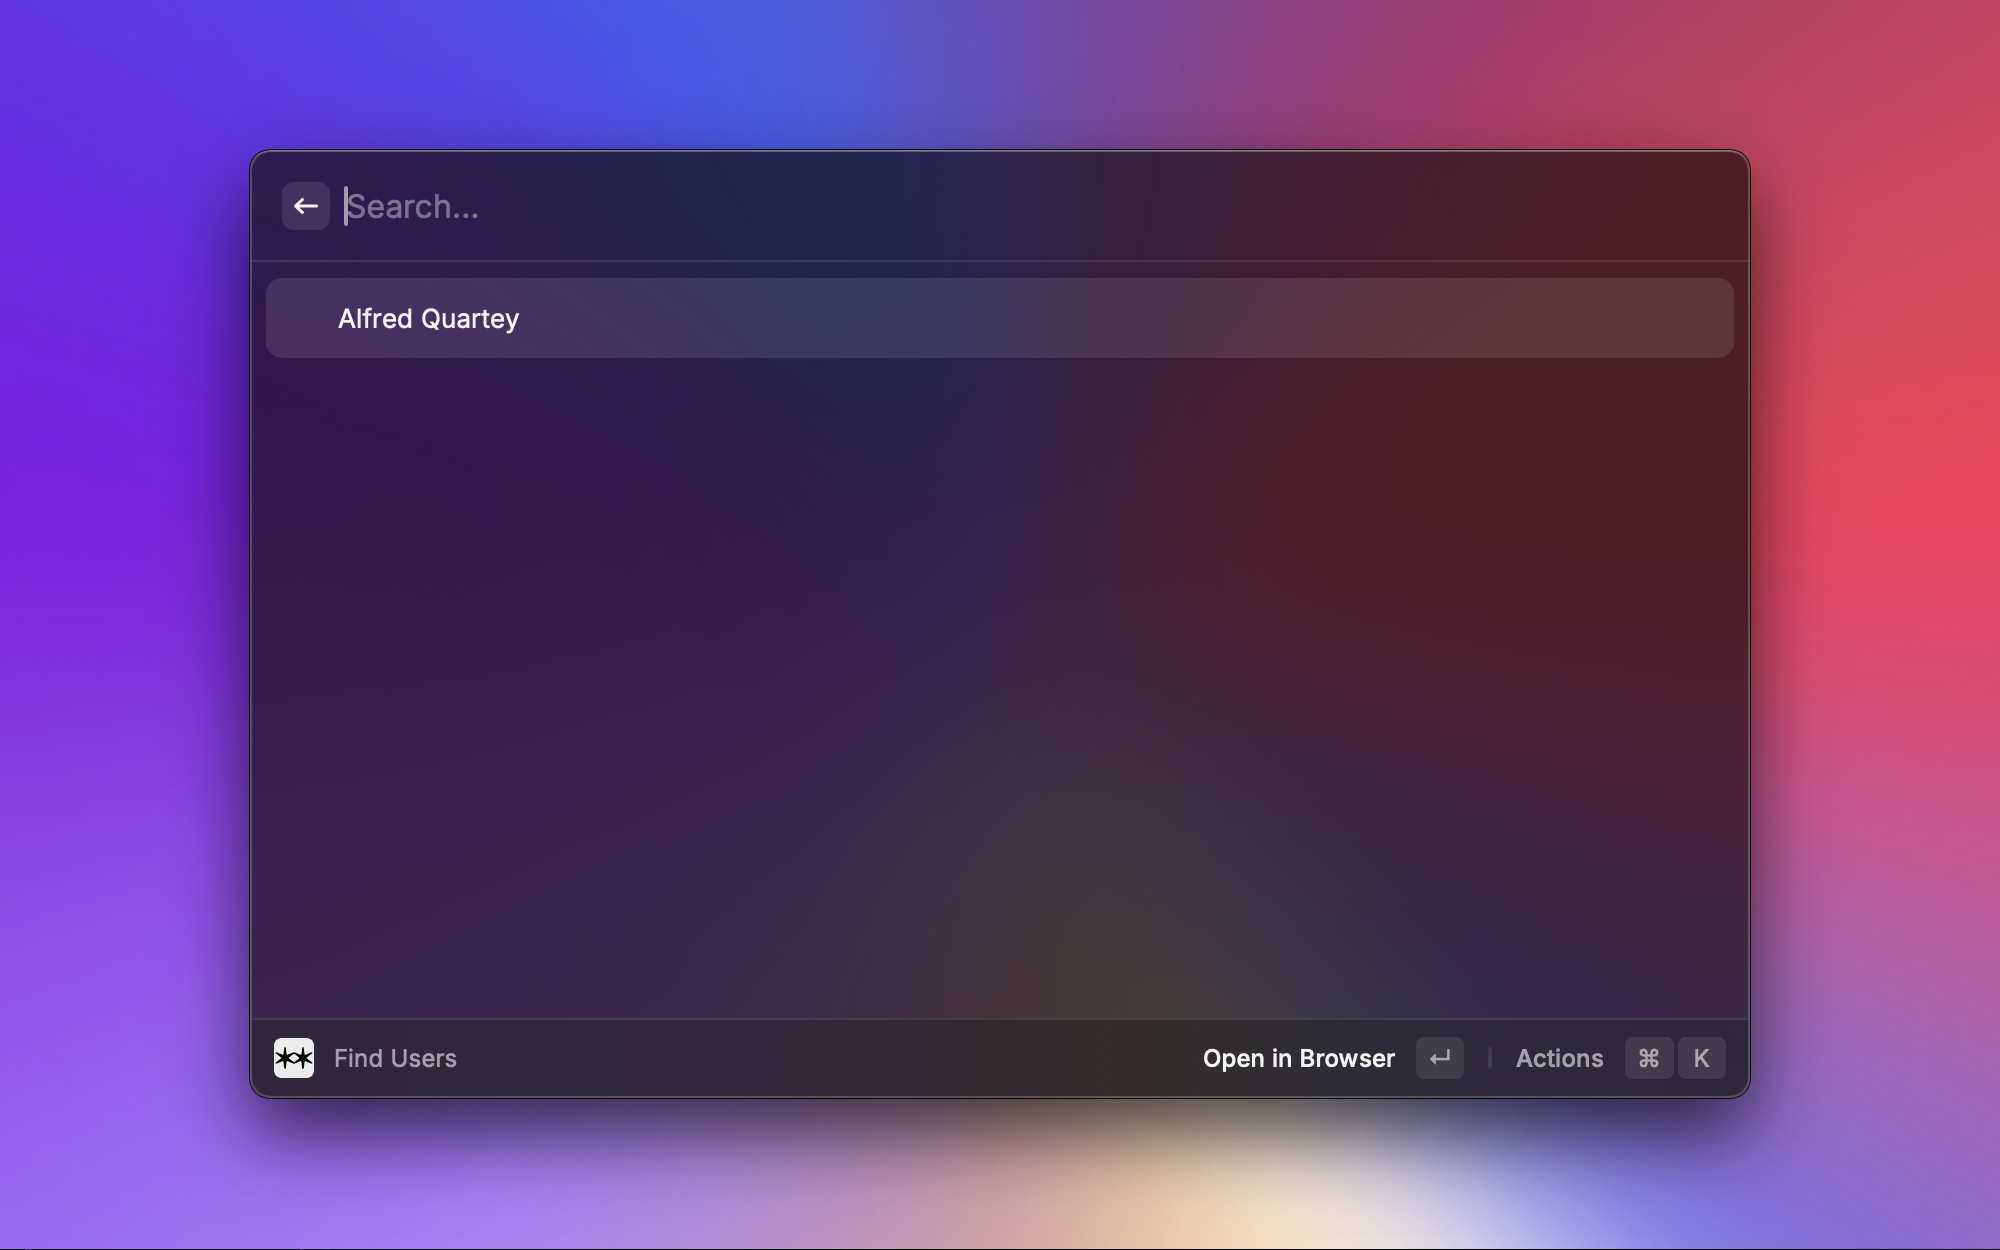
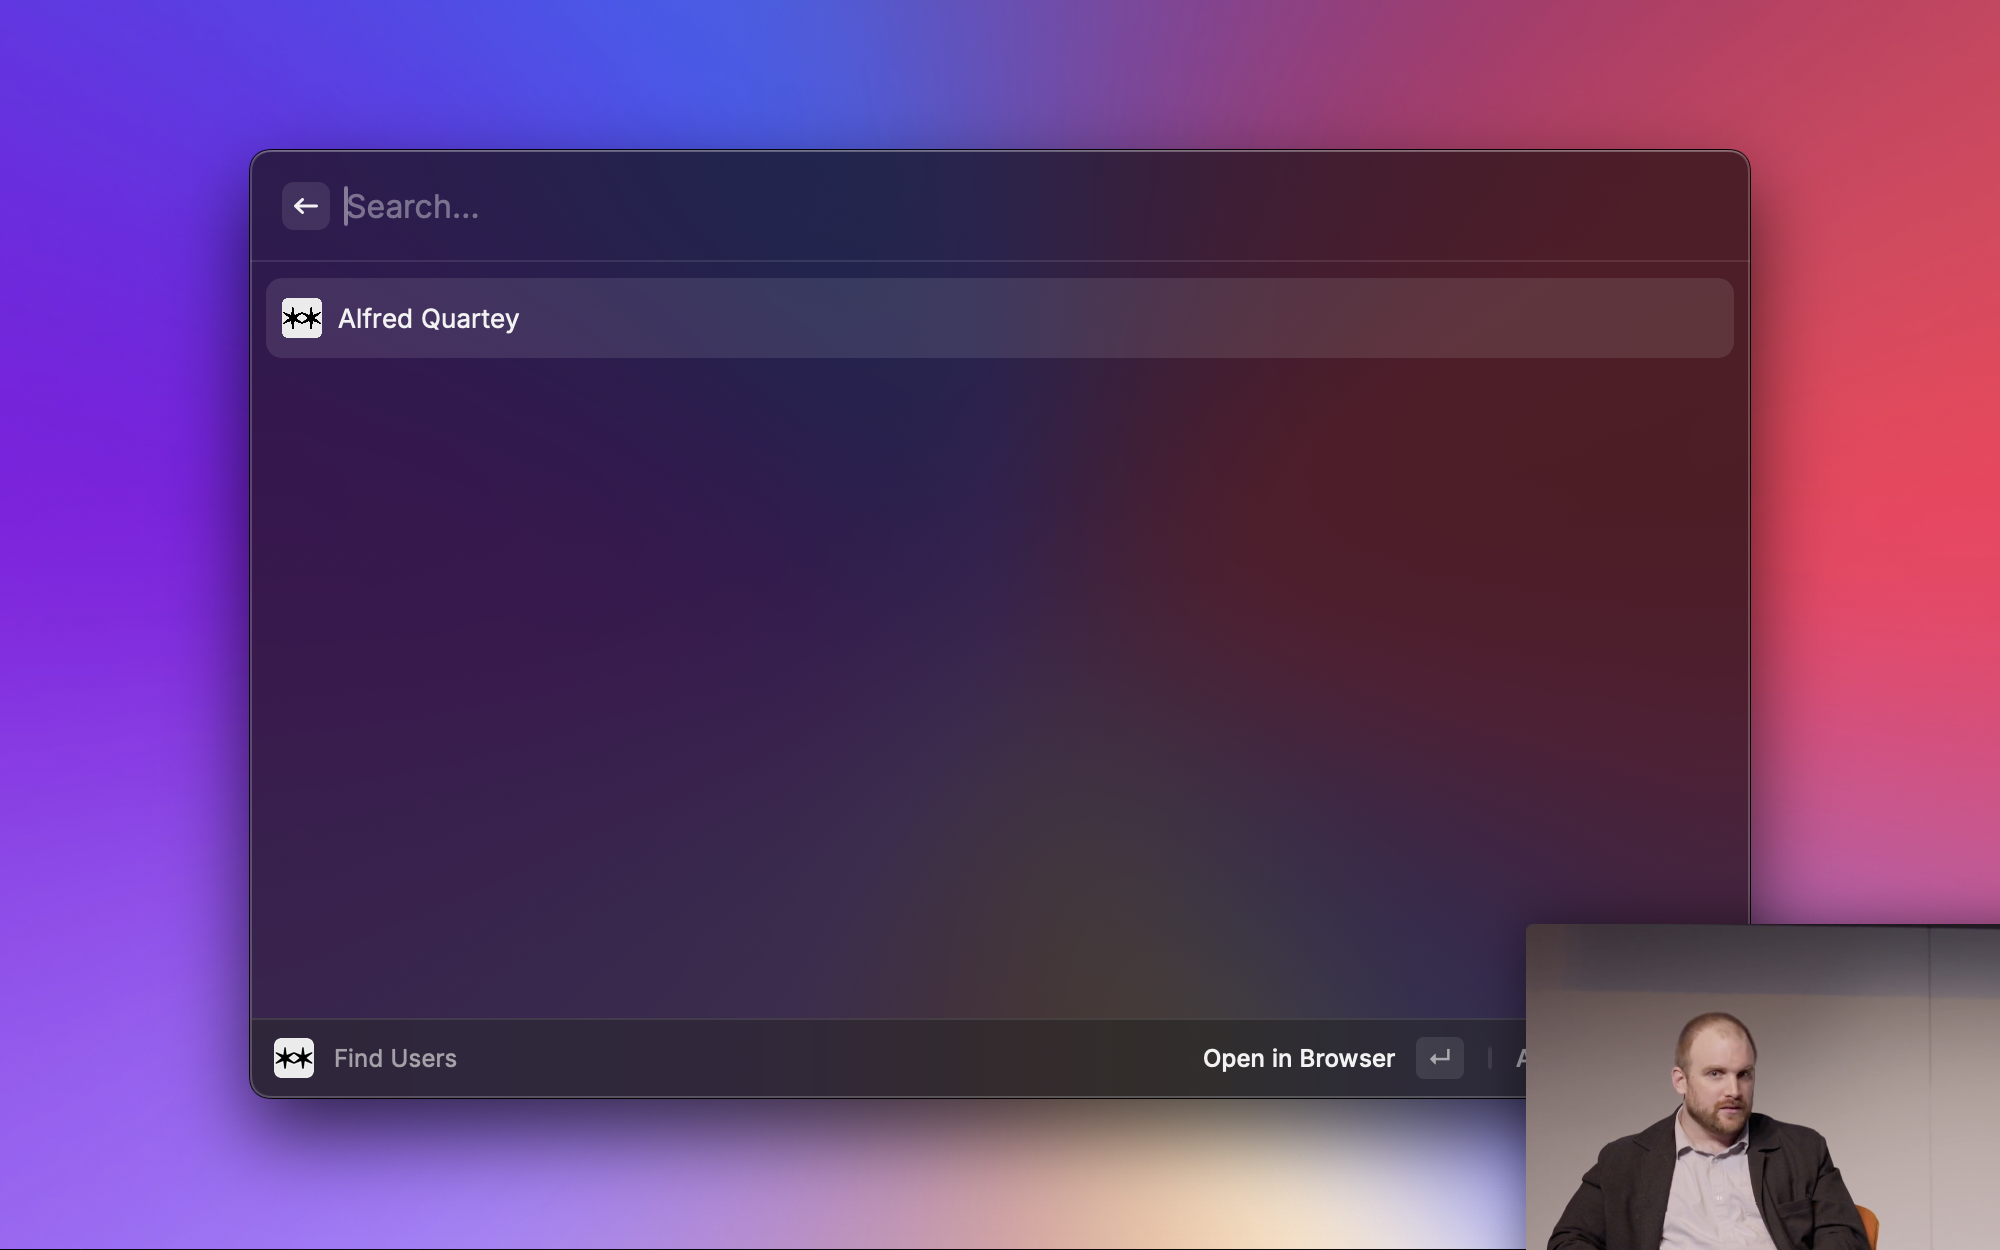
svg to png and intl.date

Changed region(s): [[0.744, 0.7176, 1.0, 1.0], [0.124, 0.2184, 0.186, 0.2808]]

diff --git a/src/components/text.tsx b/src/components/text.tsx
@@ -13,7 +13,16 @@ export function TextBlockView({ block }: TextBlockViewProps) {
 
   const formatDate = (dateString?: string) => {
     if (!dateString) return "";
-    return new Date(dateString).toLocaleString();
+    const date = new Date(dateString);
+    const formatter = new Intl.DateTimeFormat(undefined, {
+      year: "numeric",
+      month: "numeric",
+      day: "numeric",
+      hour: "numeric",
+      minute: "numeric",
+      second: "numeric",
+    });
+    return formatter.format(date);
   };
 
   return (

diff --git a/src/search-users.tsx b/src/search-users.tsx
@@ -29,7 +29,7 @@ function Actions({ user }: { user: User }) {
 
 function UserListItem({ user }: { user: User }) {
   return (
-    <List.Item icon={{ source: "extension-icon.svg" }} title={user.full_name ?? ""} actions={<Actions user={user} />} />
+    <List.Item icon={{ source: "extension-icon.png" }} title={user.full_name ?? ""} actions={<Actions user={user} />} />
   );
 }
 
